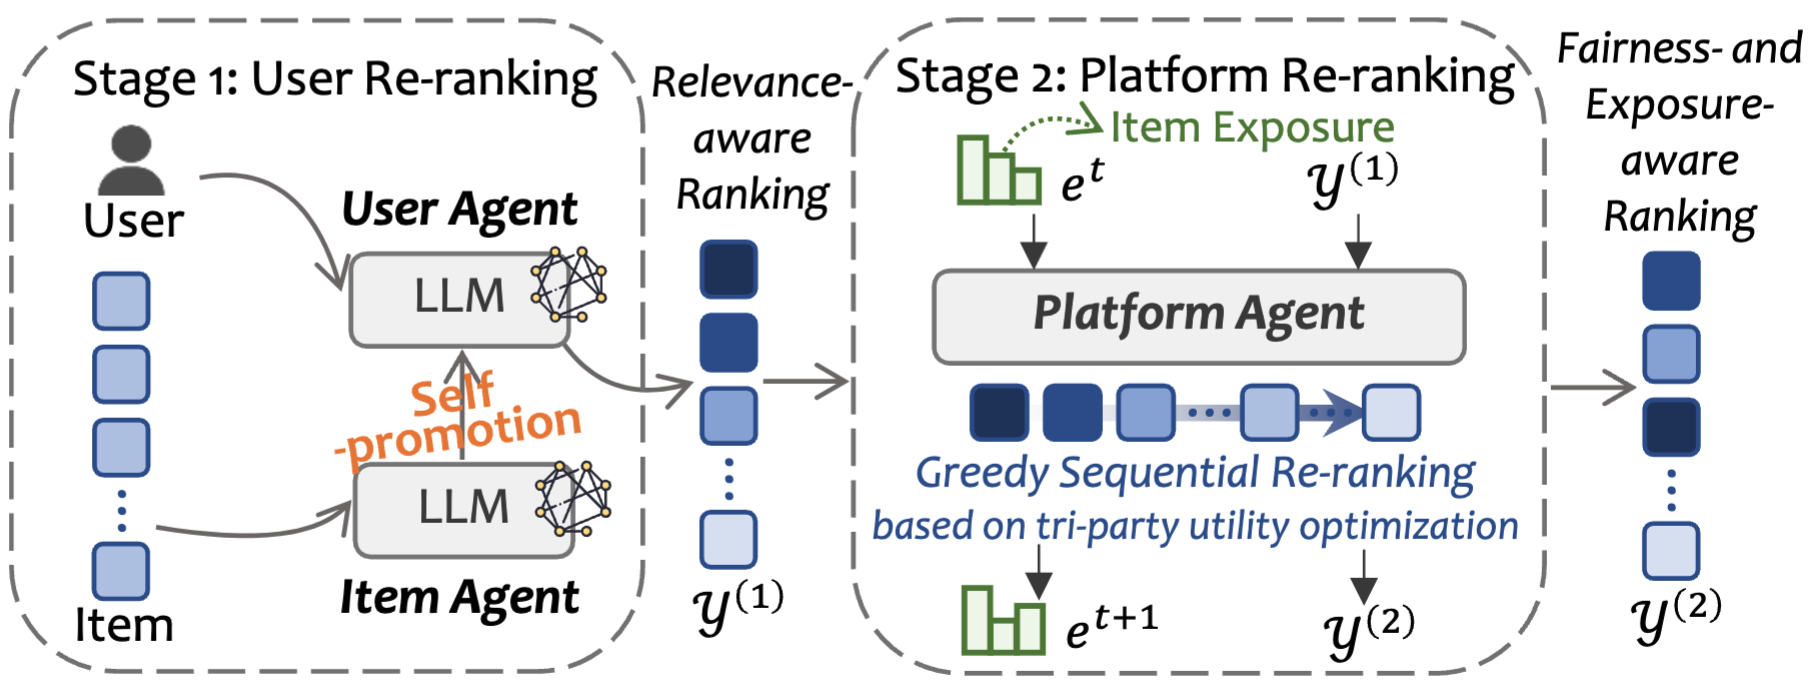
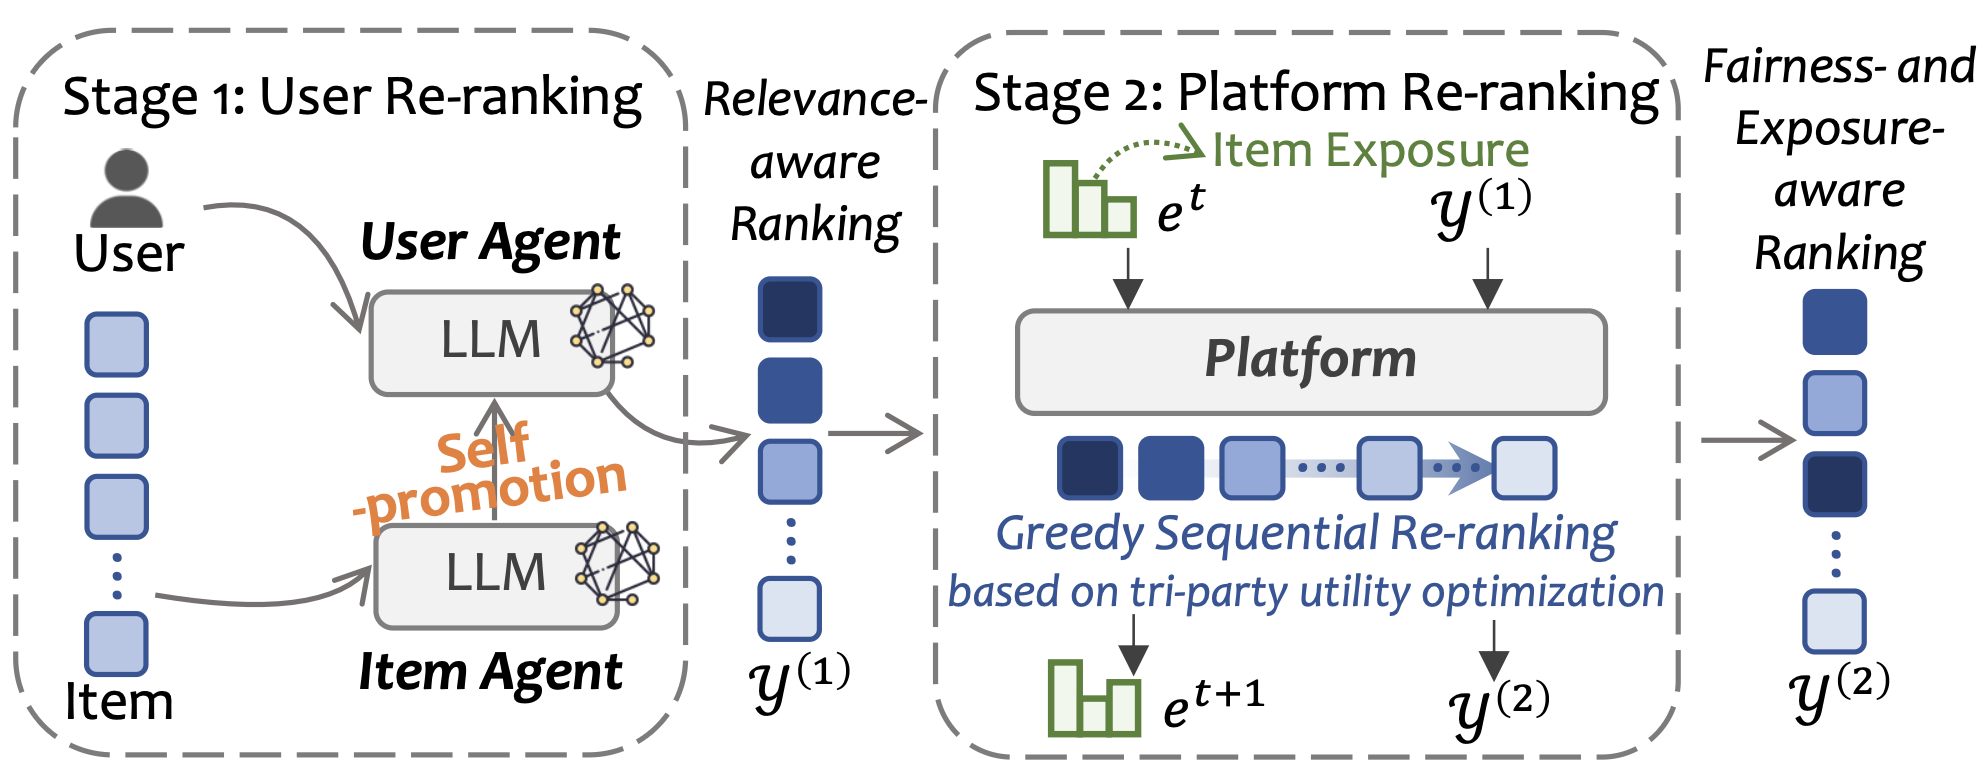
update readme

diff --git a/README.md b/README.md
@@ -8,7 +8,7 @@
 
 ## Overview
 
-TriRec is a two-stage pipeline built on LLM agents:
+TriRec is a two-stage pipeline:
 
 - **Stage 1: Generative item self-promotion.** Item agents are no longer
   passive candidates. Given a target user's interest preference, each item
@@ -16,7 +16,7 @@ TriRec is a two-stage pipeline built on LLM agents:
   emphasize *"high audio fidelity"* to musicians, *"popular tracks"* to
   students, or *"easy audio playback"* to seniors). This improves matching
   quality and provides long-tail items with opportunities to gain exposure.
-- **Stage 2: Platform-led multi-objective re-ranking.** A platform agent
+- **Stage 2: Platform-led multi-objective re-ranking.** The platform
   performs *sequential* re-ranking over the Stage-1 candidate list. For each
   position, it jointly considers (i) immediate user relevance,
   (ii) platform-level fairness, and (iii) expected item utility, balancing
